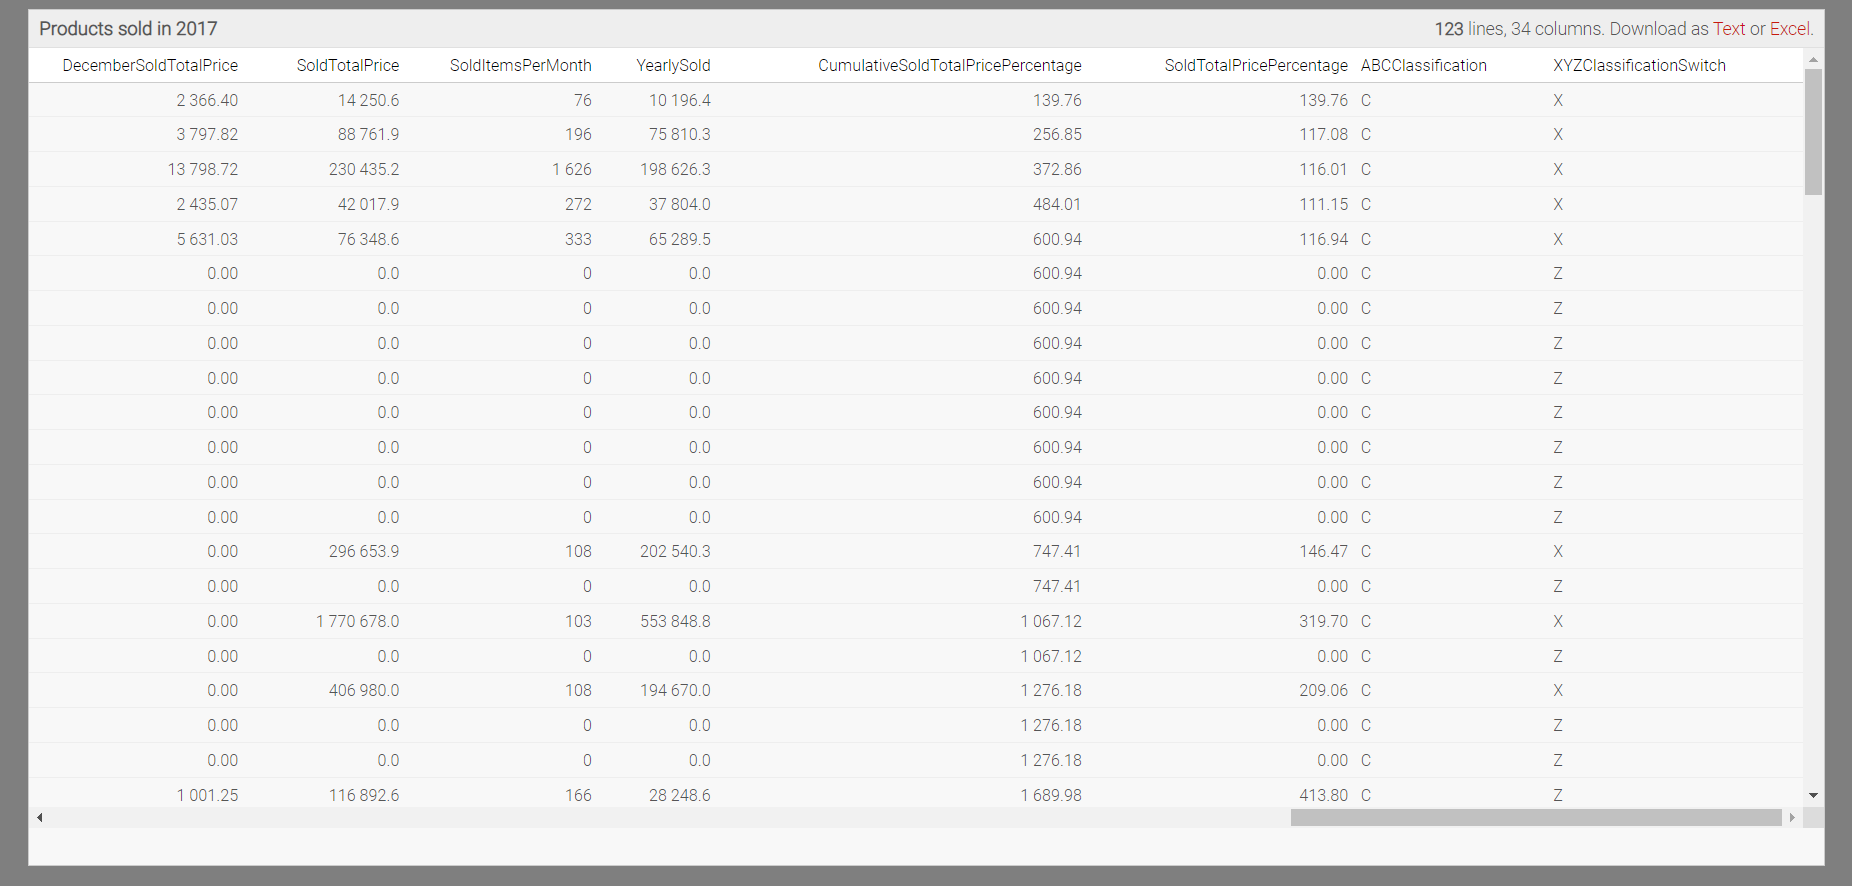
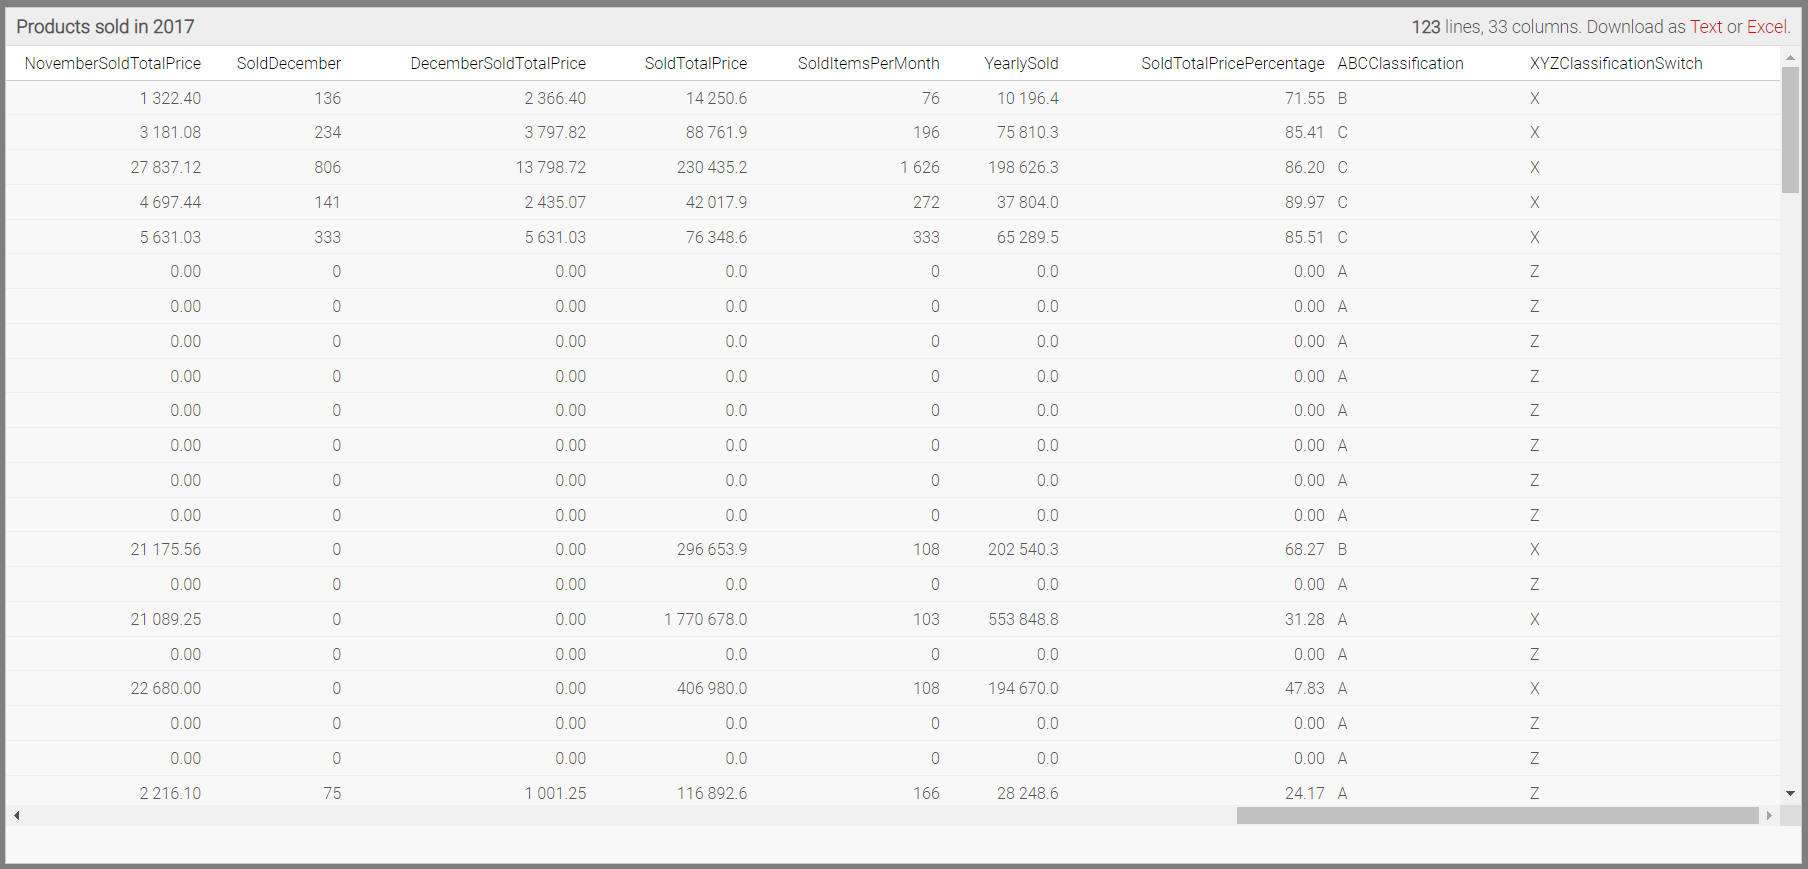
changing themes and try fix broken images

diff --git a/content/posts/abcxyz.md b/content/posts/abcxyz.md
@@ -321,12 +321,12 @@ This script also sorts the items by revenue.
 
 ```Python
   // Calculate ABC Classification
-  Items.ABCClassification = if Items.CumulativeSoldTotalPricePercentage <= 80 then
-      "A"
-    else if Items.CumulativeSoldTotalPricePercentage <= 95 then
-      "B"
-    else
-      "C"
+  Items.ABCClassification = if Items.SoldTotalPricePercentage <= 50 then
+        "A"
+      else if Items.SoldTotalPricePercentage <= 80 then
+        "B"
+      else
+        "C"
 ```
 
 **8. Calculate the Coefficient of Variation:** Calculate the Coefficient of Variation for each product by using the following script:
